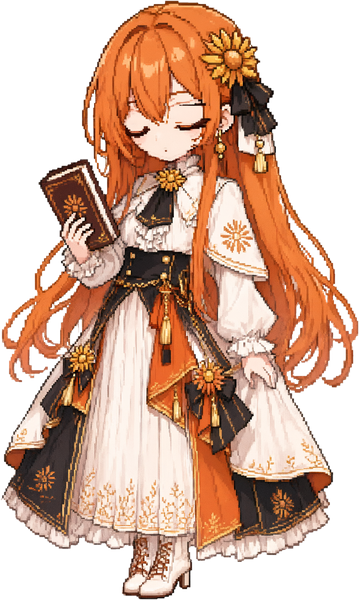
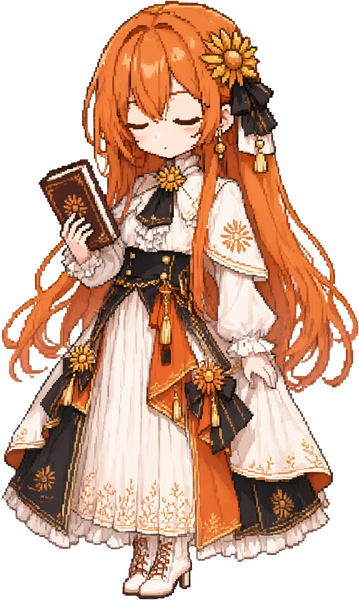
Add five everyday outfits (#18)
* Add spring, autumn, hoodie, lab coat and librarian outfits (faces only so far)

* Give the everyday outfits the sleep, work and stretch poses

* Redraw the blink, read, yawn and smile eyes cleanly

The old frames kept bits of the open eye's lid above the new one, which read as wrinkles, and every outfit copied them. The eyes were redrawn on an eyeless version of the high-res sprite, then every outfit's face frames and all work frames were rebuilt from them. face_frames.py now pastes whole eye/mouth areas instead of only the changed pixels.

* Fix doubled work eyes and the cleared foreheads in the poses

* Redo the Librarian and Autumn work eyes without moving the face

* Drop the smile frames

They changed her look too much. A finished task now ends on the stretch.

* Share one windowed match in face_frames; build the masks once

---------

Changed region(s): [[0.3064, 0.15, 0.6128, 0.3]]

diff --git a/main.swift b/main.swift
@@ -127,7 +127,7 @@ struct Tune: RandomNumberGenerator {
 /// Sprite frames, one PNG each in a character's folder. closed/half/open are the mouth while talking, then face poses,
 /// then full-body poses (sleep, work, stretch), which may be bigger than closed.png.
 enum Pose: String, CaseIterable {
-    case closed, half, open, blink_half, blink_closed, read, yawn, smile, surprised, sleep, work, stretch
+    case closed, half, open, blink_half, blink_closed, read, yawn, surprised, sleep, work, stretch
     func png(in dir: URL) -> URL { dir.appendingPathComponent("\(rawValue).png") }
     var standIn: Pose? {   // shown when a character lacks this full-body pose
         switch self { case .sleep: .blink_closed; case .work: .read; case .stretch: .yawn; default: nil }
@@ -901,7 +901,7 @@ final class App: NSObject, NSApplicationDelegate, NSTextFieldDelegate, NSMenuDel
         let working = fresh && (act?.working ?? false)
         otherActivity = working ? "\(act!.project): \(act!.detail)" : ""
         if wasWorking && !working, let a = act, fresh, a.last.timeIntervalSince(a.since) > 20, !agent.busy {
-            say("Done in \(a.project). Your turn.", then: [(.stretch, 1.6), (.smile, 2.5)])
+            say("Done in \(a.project). Your turn.", then: [(.stretch, 1.6)])
         }
         if working || agent.busy { poke() }
         wasWorking = working
@@ -1085,7 +1085,7 @@ final class App: NSObject, NSApplicationDelegate, NSTextFieldDelegate, NSMenuDel
     /// Copies a chosen folder into the characters folder (named after it) and switches to it. It needs closed.png;
     /// the other poses are optional (see README).
     @objc func addCharacter() {
-        guard let src = pickFolder("A folder with closed.png (and optionally half, open, blink_half, blink_closed, read, yawn, smile, surprised .png)") else { return }
+        guard let src = pickFolder("A folder with closed.png (and optionally half, open, blink_half, blink_closed, read, yawn, surprised, sleep, work, stretch .png)") else { return }
         guard let s = Sprite(src) else { return say("That folder needs a closed.png, the neutral frame.") }
         let fm = FileManager.default, taken = Set(characters().map(\.name))
         var name = src.lastPathComponent, n = 2

diff --git a/tools/face_frames.py b/tools/face_frames.py
@@ -1,9 +1,10 @@
 """Give a new outfit every expression frame by moving the eyes and mouth over from a reference set.
 The reference set is a folder of PNGs that differ from its closed.png only in the face (Resources/ for Claude). The new
-outfit's face is found by matching (scale and offset), then each frame's eye and mouth areas are pasted on with soft
-edges. Only pixels that the frame actually changes are copied, so hair and clothes around the face stay the outfit's own.
-Usage: python3 face_frames.py outfit/closed.png [--ref Resources] [--out outfit/] [--only read,smile] [--regions ...] [--preview sheet.png]
-  --only     make just these frames (default: all eight face frames; e.g. the eyes looking down from read.png onto a
+outfit's face is found by matching (scale and offset), then each eye or mouth area that the frame changes is pasted on
+whole, with a soft edge. Whole, not just the changed pixels: the outfit's own eye is never exactly where the reference
+one is, and the bits of it left next to a closed lid smear. Hair and clothes around the face stay the outfit's own.
+Usage: python3 face_frames.py outfit/closed.png [--ref Resources] [--out outfit/] [--only read,yawn] [--regions ...] [--preview sheet.png]
+  --only     make just these frames (default: all seven face frames; e.g. the eyes looking down from read.png onto a
              full-body pose, written as read.png)
   --regions  eye and mouth ellipses in reference pixels, "x0,y0,x1,y1;..." (default: Claude's left eye, right eye, mouth)
   --fit      skip matching and use "scale,dx,dy" (reference point (x, y) lands on ((x + dx) * scale, (y + dy) * scale))"""
@@ -14,7 +15,7 @@ from PIL import Image, ImageDraw, ImageFilter
 
 ap = argparse.ArgumentParser()
 ap.add_argument("outfit"); ap.add_argument("--ref", default=str(Path(__file__).parent.parent / "Resources"))
-ap.add_argument("--out"); ap.add_argument("--regions", default="123,112,154,140;172,102,203,132;152,134,178,158")
+ap.add_argument("--out"); ap.add_argument("--regions", default="120,106,158,136;168,98,208,131;150,136,180,162")
 ap.add_argument("--fit"); ap.add_argument("--only"); ap.add_argument("--preview")
 args = ap.parse_args()
 
@@ -23,39 +24,56 @@ base = Image.open(ref / "closed.png").convert("RGBA")
 outfit = Image.open(args.outfit).convert("RGBA")
 boxes = [tuple(map(int, r.split(","))) for r in args.regions.split(";")]
 face = (min(b[0] for b in boxes), min(b[1] for b in boxes), max(b[2] for b in boxes), max(b[3] for b in boxes))
-only = (args.only or "half,open,blink_half,blink_closed,read,yawn,smile,surprised").split(",")   # not the full-body poses
+only = (args.only or "half,open,blink_half,blink_closed,read,yawn,surprised").split(",")   # not the full-body poses
+
+ref_rgb = np.asarray(base.convert("RGB")).astype(np.float32)
+def match(img, tpl, x, y, r):
+    """Best place for tpl in img within r px of (x, y): (squared error, x, y)."""
+    x0, y0 = max(0, x - r), max(0, y - r)
+    win = img[y0:y + tpl.shape[0] + r, x0:x + tpl.shape[1] + r]
+    if win.shape[0] < tpl.shape[0] or win.shape[1] < tpl.shape[1]: return None
+    e, _, (mx, my), _ = cv2.minMaxLoc(cv2.matchTemplate(win, tpl, cv2.TM_SQDIFF))
+    return e, x0 + mx, y0 + my
+def shrunk(s): return np.asarray(outfit.convert("RGB").resize((round(outfit.width / s), round(outfit.height / s)), Image.LANCZOS)).astype(np.float32)
 
 def fit():
     """Scale and offset that best lay the reference face over the outfit's: the face matched within 60 px of where it
     is in the reference."""
-    tpl, rgb = np.asarray(base.convert("RGB").crop(face)).astype(np.float32), outfit.convert("RGB")
-    s0, best = outfit.height / base.height, None
-    for s in s0 * np.arange(0.85, 1.155, 0.01):
-        a = np.asarray(rgb.resize((round(outfit.width / s), round(outfit.height / s)), Image.LANCZOS)).astype(np.float32)
-        x0, y0 = max(0, face[0] - 60), max(0, face[1] - 60)
-        win = a[y0:face[3] + 60, x0:face[2] + 60]
-        if win.shape[0] < tpl.shape[0] or win.shape[1] < tpl.shape[1]: continue
-        e, _, (mx, my), _ = cv2.minMaxLoc(cv2.matchTemplate(win, tpl, cv2.TM_SQDIFF))
-        if best is None or e < best[0]: best = (e, s, x0 + mx - face[0], y0 + my - face[1])
+    tpl, best = ref_rgb[face[1]:face[3], face[0]:face[2]], None
+    for s in outfit.height / base.height * np.arange(0.85, 1.155, 0.01):
+        m = match(shrunk(s), tpl, face[0], face[1], 60)
+        if m and (best is None or m[0] < best[0]): best = (m[0], s, m[1] - face[0], m[2] - face[1])
     e, s, dx, dy = best
     print(f"fit: scale {s:.2f}, offset {dx},{dy} (rms {np.sqrt(e / tpl.size):.0f}; above ~45 the faces probably differ too much)")
     return s, dx, dy
 
 s, dx, dy = map(float, args.fit.split(",")) if args.fit else fit()
-region = Image.new("L", base.size, 0); draw = ImageDraw.Draw(region)
-for b in boxes: draw.ellipse(b, fill=255)
+def ellipse(b):
+    im = Image.new("L", base.size, 0); ImageDraw.Draw(im).ellipse(b, fill=255); return np.asarray(im) > 0
+areas = [ellipse(b) for b in boxes]
 B = np.asarray(base).astype(int)
-size, at = (round(base.width * s), round(base.height * s)), (round(dx * s), round(dy * s))
+size = (round(base.width * s), round(base.height * s))
+masks = [Image.fromarray((a * 255).astype(np.uint8)).filter(ImageFilter.GaussianBlur(1)).resize(size, Image.BILINEAR) for a in areas]
+# each eye and the mouth sit a little differently on every outfit: line each area up on its own, within 8 px
+def nudge(img, b):
+    m = match(img, ref_rgb[b[1]:b[3], b[0]:b[2]], round(b[0] + dx), round(b[1] + dy), 8)
+    return (m[1] - round(b[0] + dx), m[2] - round(b[1] + dy)) if m else (0, 0)
+if args.fit: shifts = [(0, 0)] * len(boxes)
+else: img = shrunk(s); shifts = [nudge(img, b) for b in boxes]; print("per-area nudge", shifts)
 view = tuple(round(v) for v in ((face[0] + dx - 25) * s, (face[1] + dy - 15) * s, (face[2] + dx + 25) * s, (face[3] + dy + 25) * s))
 sheet = [outfit.crop(view)]
 for png in sorted(ref.glob("*.png")):
     if png.stem not in only: continue
     pose = Image.open(png).convert("RGBA")
-    changed = Image.fromarray(((np.abs(np.asarray(pose).astype(int) - B).sum(2) > 40) * 255).astype(np.uint8)).filter(ImageFilter.MaxFilter(7))
-    mask = Image.fromarray(np.minimum(np.asarray(changed), np.asarray(region))).filter(ImageFilter.GaussianBlur(1.5))
-    layer, m = Image.new("RGBA", outfit.size), Image.new("L", outfit.size, 0)
-    layer.paste(pose.resize(size, Image.NEAREST), at); m.paste(mask.resize(size, Image.BILINEAR), at)
-    frame = Image.composite(layer, outfit, m); frame.save(out / png.name); sheet.append(frame.crop(view))
+    changed = np.abs(np.asarray(pose).astype(int) - B).sum(2) > 40
+    frame, scaled = outfit, pose.resize(size, Image.NEAREST)
+    for a, mask, (ox, oy) in zip(areas, masks, shifts):
+        if (changed & a).sum() <= 6: continue
+        at = (round((dx + ox) * s), round((dy + oy) * s))
+        layer, m = Image.new("RGBA", outfit.size), Image.new("L", outfit.size, 0)
+        layer.paste(scaled, at); m.paste(mask, at)
+        frame = Image.composite(layer, frame, m)
+    frame.save(out / png.name); sheet.append(frame.crop(view))
     print("wrote", out / png.name)
 if args.preview:
     w, h = sheet[0].size; im = Image.new("RGBA", (w * len(sheet), h), (200, 200, 200, 255))

diff --git a/tools/fit_frame.py b/tools/fit_frame.py
@@ -1,6 +1,6 @@
 """Scale and place a new full-body pose so it lines up with closed.png.
 Two anchors that a pose redraws least: a rigid mark on the head (Claude's sunflower) and the soles. The mark is found
-by template matching, the soles are the lowest opaque row; the pose is scaled so mark-to-soles matches closed.png,
+by template matching near where it sits above the feet in closed.png (the book cover has a sunflower too), the soles are the lowest opaque row; the pose is scaled so mark-to-soles matches closed.png,
 then moved so the soles and the middle of the feet match. Image edits don't keep the figure's size or place (more so
 with a padded source), so nothing here relies on the source image.
 A pose that reaches past closed.png (raised arms) grows the canvas upwards and equally to both sides, so the bottom
@@ -32,9 +32,13 @@ tpl, (cy, cx) = flat(base.crop(m)), feet(base)
 best = None
 for s in H / pose.height * np.arange(0.75, 1.45, 0.005):   # raised arms make the pose taller than closed.png
     q = pose.resize((round(pose.width * s), round(pose.height * s)), Image.LANCZOS); img = flat(q)
-    if img.shape[0] < tpl.shape[0] or img.shape[1] < tpl.shape[1]: continue
-    e, _, (_, my), _ = cv2.minMaxLoc(cv2.matchTemplate(img, tpl, cv2.TM_SQDIFF))
-    if best is None or e < best[0]: best = (e, s, my, q)
+    # look only near where the mark sits relative to the feet in closed.png: a book cover can carry the same sunflower
+    qy, qx = feet(q); r = round(H * 0.12)
+    x0, y0 = max(0, round(qx - (cx - m[0])) - r), max(0, round(qy - (cy - m[1])) - r)
+    win = img[y0:y0 + tpl.shape[0] + 2 * r, x0:x0 + tpl.shape[1] + 2 * r]
+    if win.shape[0] < tpl.shape[0] or win.shape[1] < tpl.shape[1]: continue
+    e, _, (_, my), _ = cv2.minMaxLoc(cv2.matchTemplate(win, tpl, cv2.TM_SQDIFF))
+    if best is None or e < best[0]: best = (e, s, y0 + my, q)
 e, s, my, q = best
 py, _ = feet(q)
 k = s * (cy - m[1]) / (py - my)   # mark top to soles, as in closed.png

diff --git a/README.md b/README.md
@@ -27,15 +27,15 @@ A small pixel-art Claude that lives on your macOS desktop. You can chat with it,
 - **Usage.** The menu-bar ✦ shows today's output tokens. The menu breaks usage down per account (output, input including cache, number of sessions) and shows the context size of the latest session.
 - **Usage panel.** Right-click the pet for a panel with your plan limits per account (5-hour and weekly, with Opus / Sonnet when your plan has them), the same percentages and reset times as `/usage` in Claude Code, plus today's tokens and what is running now. The first time, macOS asks whether ClaudePet may read Claude Code's login from the keychain; choose Always Allow.
 - **Voice.** What she says types into the bubble a character at a time, about 11 a second, with a short pause at commas and sentence ends; long text speeds up so it finishes in about 5 seconds. Her mouth moves while it types. Pick the sound under Voice in the menu: **Soft** is a 50 ms sine on a note from C5 to A5, at most every 0.18 s (about every other Chinese character); **8-bit** is a 25% pulse on G5, slightly detuned, with a quick fade, one per character, like an old game's text box; or **Off**. The notes are picked from the text itself, so the same line always has the same tune.
-- **Pixel animation.** She blinks every few seconds. Now and then she reads her book, and very rarely she yawns. While a Claude Code session works she mostly writes in her book with a quill. After 5 minutes with nothing going on she dozes off hugging the book; clicking her startles her awake, and a message or a new task wakes her with a stretch. When a task finishes she stretches and smiles. A full-body pose stays up at least a second, so she never flickers between them. Every pose is a full pixel-art frame with only the eyes and mouth changed, so nothing gets stretched.
-- **Characters.** Pick one under Character in the menu: Claude, or Claude in a winter outfit (white fur hat) or a summer one (straw hat), each with the full set of faces and poses. Add your own with **Add Character…**: choose a folder laid out as below and it is copied into `~/Library/Application Support/ClaudePet/Characters/` ("Open Characters Folder…" shows it). Characters stay on your Mac, so art you can't share works too.
+- **Pixel animation.** She blinks every few seconds. Now and then she reads her book, and very rarely she yawns. While a Claude Code session works she mostly writes in her book with a quill. After 5 minutes with nothing going on she dozes off hugging the book; clicking her startles her awake, and a message or a new task wakes her with a stretch. When a task finishes she stretches. A full-body pose stays up at least a second, so she never flickers between them. Every pose is a full pixel-art frame with only the eyes and mouth changed, so nothing gets stretched.
+- **Characters.** Pick one under Character in the menu: Claude, or Claude in another outfit: Spring (sakura haori), Summer (straw hat), Autumn (cardigan), Winter (white fur hat), Hoodie, Lab Coat or Librarian, each with the full set of faces and poses. Add your own with **Add Character…**: choose a folder laid out as below and it is copied into `~/Library/Application Support/ClaudePet/Characters/` ("Open Characters Folder…" shows it). Characters stay on your Mac, so art you can't share works too.
 
   ```
   My Character/          the folder name is the character's name
     closed.png           required: the neutral frame, transparent background
     half.png  open.png   mouth half / fully open while talking
     blink_half.png  blink_closed.png
-    read.png  yawn.png  smile.png  surprised.png
+    read.png  yawn.png  surprised.png
     sleep.png  work.png  stretch.png    full-body poses: dozing, writing, stretching
   ```
   Every PNG but `closed.png` is optional; a missing one shows `closed.png` (a missing sleep, work or stretch shows blink_closed, read or yawn). Face frames are the same size as `closed.png` with only the face changed, so nothing jumps. The full-body poses may be bigger (raised arms): they are drawn at the same scale with the same bottom centre. [docs/character-pipeline.md](docs/character-pipeline.md) shows how the outfits were made, including generating the faces from Claude's.
@@ -80,7 +80,7 @@ Sessions the pet runs itself don't need it: their permission requests already po
 |---|---|
 | `main.swift` | the whole app (AppKit, no dependencies) |
 | `build.sh` | compiles with `swiftc` and packages the `.app` |
-| `Resources/` | sprite frames: mouth closed / half / open, plus face poses (blinks, reading, yawn, smile, surprised); `Characters/<name>/` holds the outfits; `AppIcon.icns` is the app icon |
+| `Resources/` | sprite frames: mouth closed / half / open, plus face poses (blinks, reading, yawn, surprised); `Characters/<name>/` holds the outfits; `AppIcon.icns` is the app icon |
 | `tools/make_icon.py` | builds `Resources/AppIcon.icns` from a sprite: head and shoulders on a cream plate, every size through `iconutil` (numpy, Pillow) |
 | `tools/cutout.py` | cuts a sprite out of its white background and scales it to 600 px; `--white 246` for white clothes (numpy, scipy, Pillow) |
 | `tools/fit_frame.py` | scales and places a full-body pose so its head mark and soles line up with `closed.png`, growing the canvas for raised arms (numpy, OpenCV, Pillow) |

diff --git a/docs/character-pipeline.md b/docs/character-pipeline.md
@@ -62,7 +62,7 @@ Look at `check.png` (dark background). White clothes or a white hat without a da
 python3 tools/face_frames.py "Resources/Characters/Claude (Summer)/closed.png" --preview sheet.png
 ```
 
-This writes the eight other frames (talking, blinking, read, yawn, smile, surprised) next to `closed.png` by matching the outfit's face to the reference set (`Resources/`, Claude's own frames) and pasting each frame's eyes and mouth onto it. It prints the scale and offset it found and the mean difference; Claude's outfits matched at about 17 to 20. Check `sheet.png`: the first face is the outfit's own, the others should line up with it without seams.
+This writes the seven other frames (talking, blinking, read, yawn, surprised) next to `closed.png` by matching the outfit's face to the reference set (`Resources/`, Claude's own frames) and pasting each frame's eyes and mouth onto it. It prints the scale and offset it found and the mean difference; Claude's outfits matched at about 17 to 20. Check `sheet.png`: the first face is the outfit's own, the others should line up with it without seams.
 
 For a different character, make its reference set first (a closed-mouth `closed.png` and the other frames, which must differ from it only in the face), then pass `--ref` and `--regions` with ellipses around its eyes and mouth in reference pixels.
 
@@ -96,8 +96,15 @@ python3 tools/face_frames.py work.png --only read --fit 1,<ext>,<top> --out tmp/
 
 Clean before scaling down: at 600 px the leftover white blends into light orange and defringe no longer sees it. `cutout.py` gives the soft edge the colour of the solid pixels next to it (otherwise the background's white stays in it as a rim around the hair) and removes enclosed white gaps of any size that sit in hair.
 
-`fit_frame.py` finds the head mark (`--mark`, Claude's sunflower by default) and the soles, scales the pose so the distance between them matches `closed.png`, and puts the soles and the middle of the feet where `closed.png` has them. It prints the mark's match: much above 40 means it wasn't found (it happened once, on a stretch variant; use the other one). `check.png` shows `closed.png` faintly over the pose: head and shoes should sit on it. `ext` and `top` are how much the canvas grew on each side and on top (`(width − 359) / 2` and `height − 600` for Claude); `--fit` tells face_frames the face is already in place.
+`fit_frame.py` finds the head mark (`--mark`, Claude's sunflower by default) and the soles, scales the pose so the distance between them matches `closed.png`, and puts the soles and the middle of the feet where `closed.png` has them. It only searches near where the mark sits above the feet, because the book cover carries a sunflower too. For an outfit, pass that outfit's own mark box (find the sunflower in its `closed.png`; a hat or a maple leaf can change its size and place). It prints the mark's match; above ~45 is suspect, so check the preview and use the other variant if the head doesn't sit on the ghost. The rms alone isn't decisive: the librarian matched at 41–55 and still lined up. `check.png` shows `closed.png` faintly over the pose: head and shoes should sit on it. `ext` and `top` are how much the canvas grew on each side and on top (`(width − 359) / 2` and `height − 600` for Claude); `--fit` tells face_frames the face is already in place. For an outfit, `--fit` is the outfit's own face fit (the line `face_frames.py` printed for its `closed.png`) with `ext / scale` and `top / scale` added to the offsets, and `--regions` set to the two eye ellipses only (`123,112,154,140;172,102,203,132`): the mouth patch smears skin onto scarves and collars. The head can still sit a few pixels off in the pose (Spring: 10 px lower); then try a small grid of offsets and pick the one without a doubled eye.
 
 Lining up on the source image instead (assuming the edit keeps the layout) worked only without padding, and matching on the skirt hem, shoes or head colours alone was unreliable: each edit redraws them a little differently.
 
 Check the result on magenta and on near-black: white left between hair strands is easy to miss on dark grey, and a white rim shows on a dark desktop.
+
+## Lessons from the eye fixes
+
+- **Clean expression frames start from a blank face.** Editing open eyes into closed ones leaves the old lid line above the new one (it reads as wrinkles), and every outfit copies it. Ask the model to remove the eyes entirely on the high-res sprite first, then draw each expression on that blank face and paste back only the eye ellipses.
+- **Full-body poses get their own eyes, edited in place.** Each pose places and tilts the head differently, so eyes pasted from the reference set double up. For `work.png`, crop the head from the fitted frame, upscale it 5×, ask for only the eyes to look down, and paste back only where the edit differs from the frame within the eye band.
+- **Guard the whole head skin when defringing a pose.** The default face box covers only the eyes and mouth; the bright forehead between the bangs then counts as white in hair and gets cleared. Pass `fit_frame.py --face 55:175,100:230` so the printed guard covers the forehead too.
+
